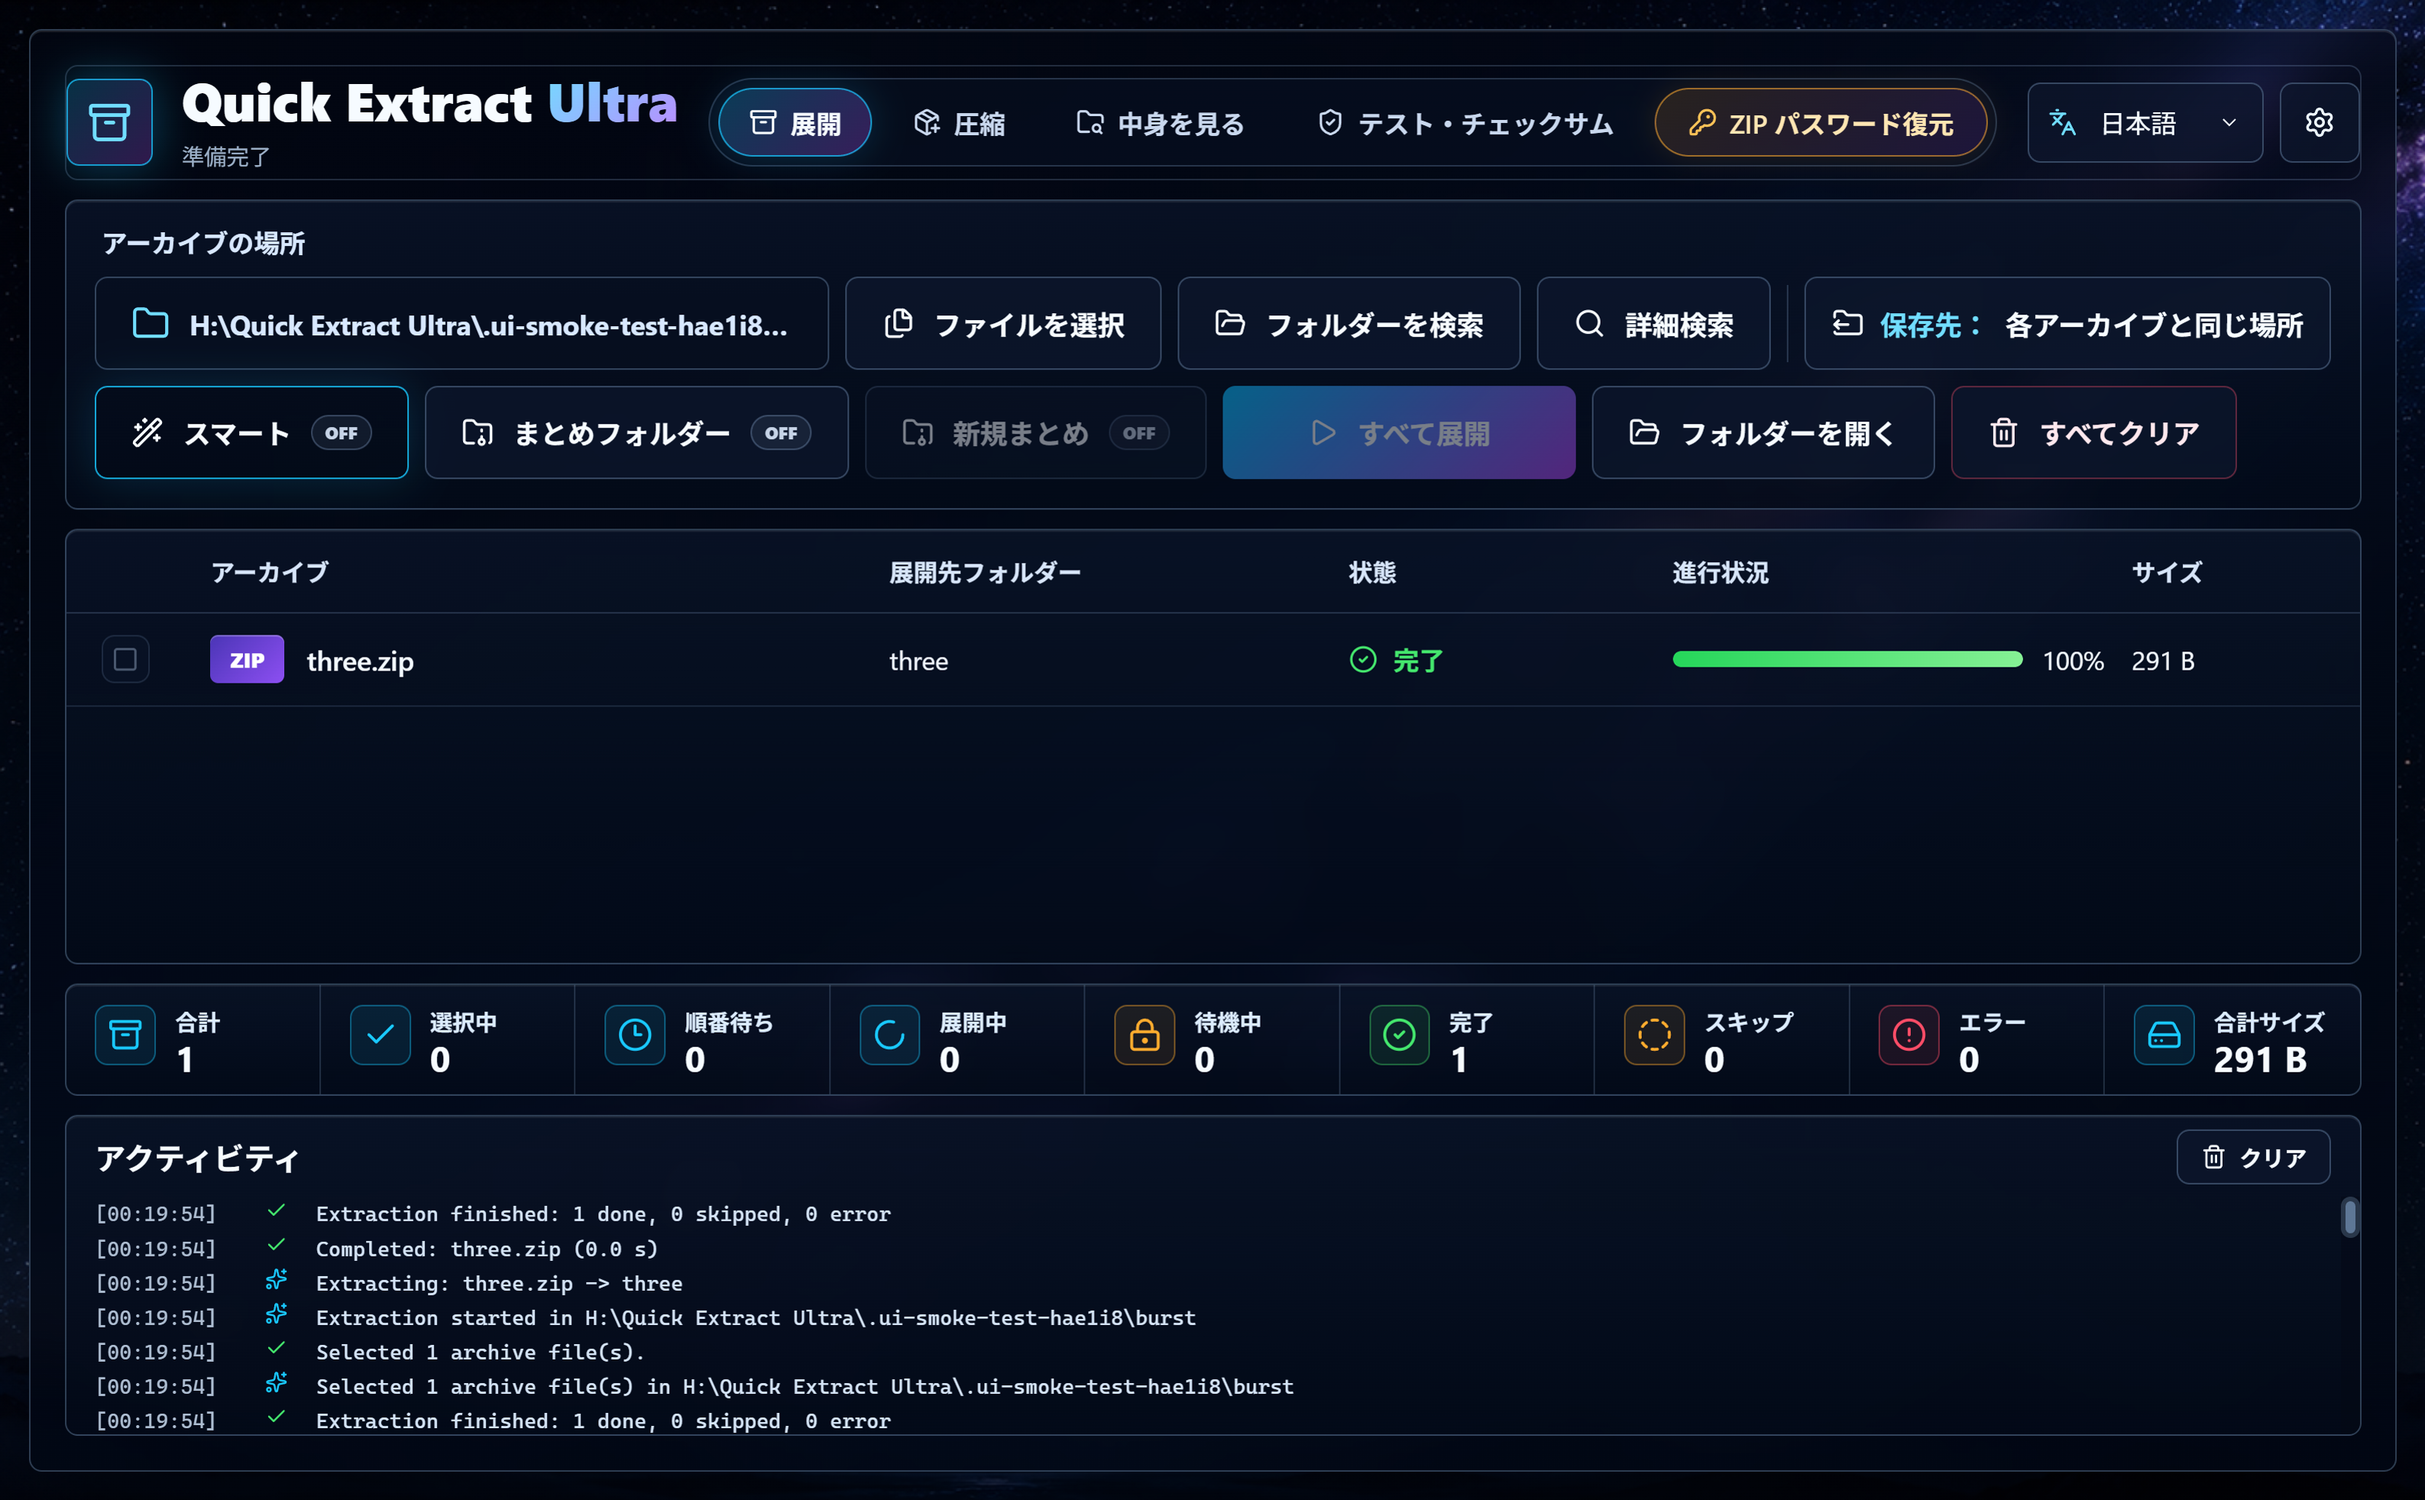
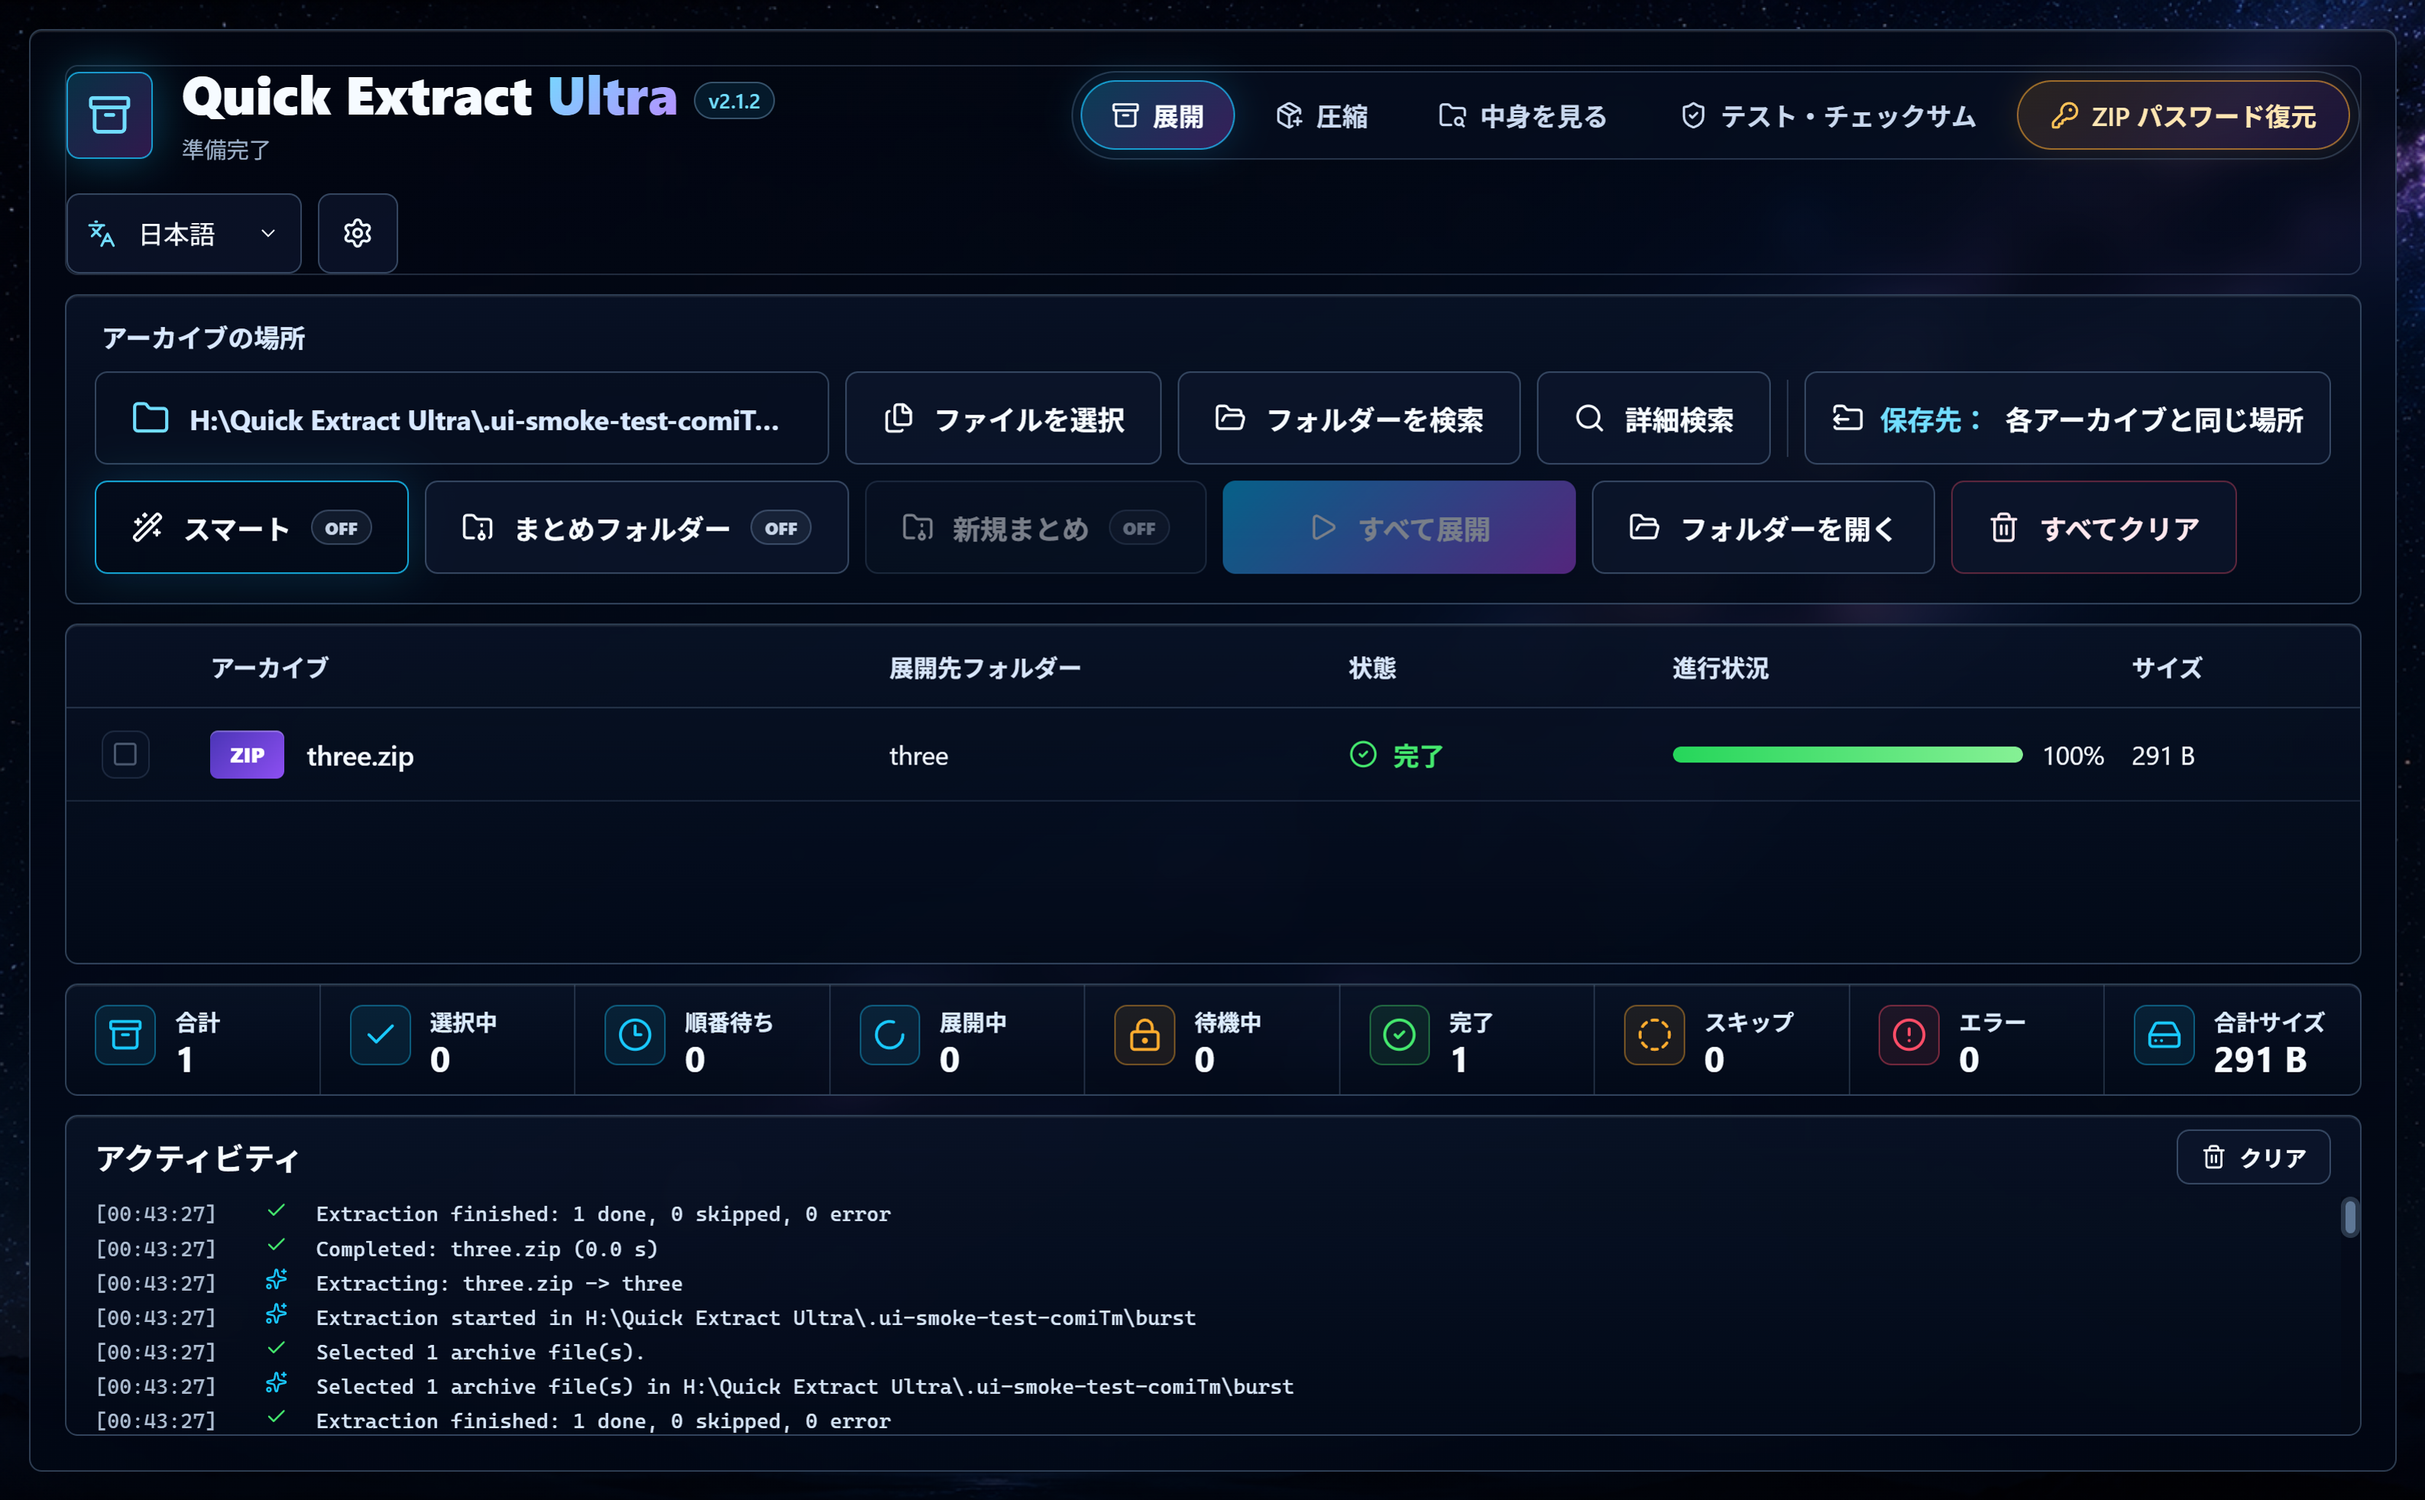
2.1.2: version badge in header; recovery is ZIP-only with clear message
- Show the app version as a small badge next to the title (read from
  package.json, so correct in dev and packaged).
- Password recovery only supports ZIP (its tools do not read RAR/7z):
  the chooser filters to .zip and a non-ZIP file is now rejected with a
  clear "ZIP only" message instead of the generic hash-read error.

Verified: 42/42 tests, typecheck, build, UI smoke test; archive-type
check accepts .zip and rejects .7z/.rar.

diff --git a/src/RecoverView.tsx b/src/RecoverView.tsx
@@ -131,16 +131,17 @@ export default function RecoverView({ addLog }: Props) {
     && (canBkcrack || Boolean(tool('john')?.installed));
 
   const chooseZip = async () => {
-    const [picked] = await window.quickExtract.selectPaths({ archives: true });
+    const [picked] = await window.quickExtract.selectPaths({ zip: true });
     if (!picked) return;
     setZipPath(picked);
     setInspection(null);
     setFound(null);
     setPhase('idle');
+    setMessage('');
     setKnownPlaintext('');
     const result = await window.quickExtract.inspectZip(picked);
     if (result.ok) setInspection(result.value);
-    else { setMessage(result.message); addLog('error', result.message); }
+    else { setPhase('error'); setMessage(result.message); addLog('error', result.message); }
   };
 
   const chooseKnownPlaintext = async () => {
@@ -384,6 +385,7 @@ export default function RecoverView({ addLog }: Props) {
             </button>
             <span className="muted zip-name" title={zipPath}>{inspection?.fileName || t('recover.noZip')}</span>
           </div>
+          <p className="muted small-print">{t('recover.zipOnly')}</p>
 
           {inspection && (
             <div className="zip-facts">

diff --git a/src/types.d.ts b/src/types.d.ts
@@ -234,7 +234,7 @@ declare global {
       getAppInfo: () => Promise<AppInfo>;
       getSettings: () => Promise<AppSettings>;
       updateSettings: (patch: Partial<AppSettings>) => Promise<TaskResult<AppSettings>>;
-      selectPaths: (options: { folders?: boolean; archives?: boolean }) => Promise<string[]>;
+      selectPaths: (options: { folders?: boolean; archives?: boolean; zip?: boolean }) => Promise<string[]>;
       statPaths: (paths: string[]) => Promise<PathInfo[]>;
       pathForFile: (file: File) => string;
       listArchive: (archivePath: string, password?: string) => Promise<TaskResult<ArchiveListing>>;

diff --git a/src/App.tsx b/src/App.tsx
@@ -706,7 +706,7 @@ function Workspace({ settings, onSettingsChange }: WorkspaceProps) {
               <Archive size={28} />
             </div>
             <div>
-              <h1>Quick Extract <em>Ultra</em></h1>
+              <h1>Quick Extract <em>Ultra</em>{appInfo?.version && <small className="app-version">v{appInfo.version}</small>}</h1>
               <span>{notice || t('notice.ready')}</span>
             </div>
           </div>

diff --git a/src/App.css b/src/App.css
@@ -2035,3 +2035,16 @@ input:focus-visible,
 }
 
 .auto-pitch { margin: 0; line-height: 1.6; font-size: 14px; }
+
+.app-version {
+  margin-left: 10px;
+  padding: 2px 8px;
+  border: 1px solid rgba(170, 211, 255, 0.3);
+  border-radius: 999px;
+  font-size: 13px;
+  font-weight: 600;
+  letter-spacing: 0;
+  color: var(--cyan-soft);
+  background: rgba(25, 200, 255, 0.1);
+  vertical-align: middle;
+}

diff --git a/CHANGELOG.md b/CHANGELOG.md
@@ -9,6 +9,24 @@ Version notes are required for every future app change. Each release should reco
 - Verification performed.
 - Package or shortcut changes, if any.
 
+## 2.1.2 - 2026-10-22
+
+### Added
+
+- The version number is shown as a small badge next to "Quick Extract Ultra" in the header, so you can always tell which build you are running. It is read from `package.json` (the `app:info` version now comes from `package.json`, not `app.getVersion()`, which returned Electron's version when unpackaged).
+
+### Changed
+
+- Password recovery is ZIP-only (its tools — `zip2john`, `bkcrack` — do not read RAR or 7z). The "Choose ZIP" picker now filters to `.zip`, and a non-ZIP file (e.g. a `.rar`) is rejected up front with a clear message instead of the generic "Could not read a password hash". A short "ZIP files only" note sits under the chooser.
+
+### Verified
+
+- `npm test` 42/42, `npm run typecheck`, `npm run build`, `npm run test:ui`. Version badge confirmed to read the app version (2.1.2). Archive-type check confirmed: `.zip` accepted, `.7z`/`.rar` rejected as NOT_ZIP.
+
+### Package
+
+- Outputs: `QuickExtractUltra-Setup-2.1.2.exe`, `QuickExtractUltra-Portable-2.1.2-win-x64.zip`.
+
 ## 2.1.1 - 2026-10-22
 
 ### Changed
